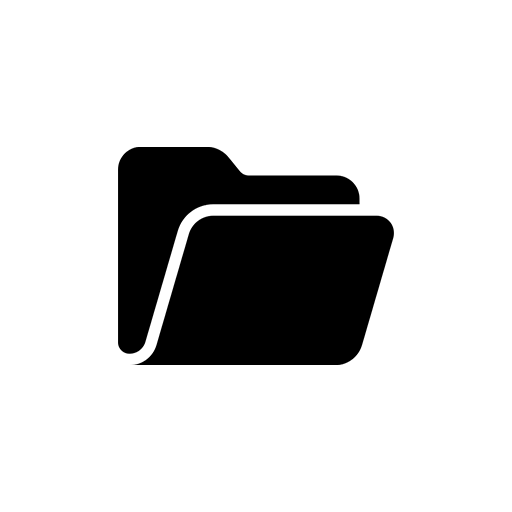
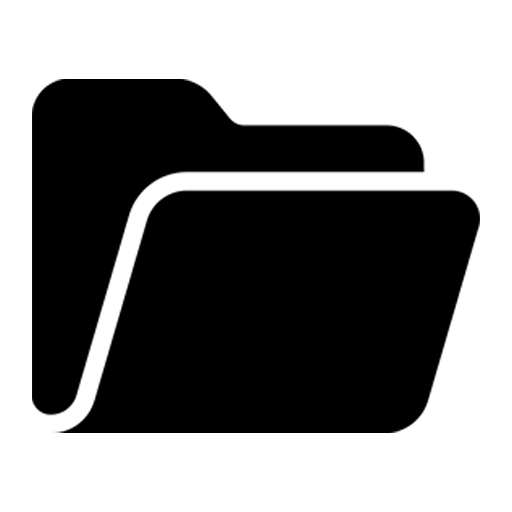
UI Update 4

diff --git a/front-end/src/pages/NasFileBrowser.jsx b/front-end/src/pages/NasFileBrowser.jsx
@@ -884,7 +884,15 @@ function NasFileBrowser() {
         {loading ? <p className="file-server-empty">Loading catalogue…</p> : (
           <>
             {visibleEntries.map((entry) => (
-              <article className={`file-server-row ${entry.entryType === 'folder' ? 'folder' : ''}`} key={entry.id}>
+              <article
+                className={`file-server-row ${entry.entryType === 'folder' ? 'folder' : ''} ${entry.previewKind === 'image' ? 'image-file' : ''}`}
+                key={entry.id}
+                onClick={() => {
+                  if (entry.previewKind === 'image' && !deliveringEntryId && !sharingEntryId) {
+                    void openImageLightbox(entry);
+                  }
+                }}
+              >
                 {entry.entryType === 'folder' ? (
                   <button className="file-server-name-button" onClick={() => setFolder(entry.relativePath)}>
                     {renderNasEntryIcon(entry)}
@@ -903,20 +911,20 @@ function NasFileBrowser() {
                 )}
                 <span>{entry.entryType === 'folder' ? 'Folder' : formatBytes(entry.sizeBytes)}</span>
                 <span>{formatDate(entry.modifiedAt)}</span>
-                <div className="file-server-row-actions">
+                <div className="file-server-row-actions" onClick={(event) => event.stopPropagation()}>
                   {searchState && <button className="file-server-button compact" onClick={() => openEntryLocation(entry)}>Show location</button>}
                   {entry.entryType === 'file' && (
                     <>
-                    <button
-                      className="file-server-button compact"
-                      type="button"
-                      disabled={Boolean(deliveringEntryId) || Boolean(sharingEntryId)}
-                      onClick={() => (entry.previewKind === 'image'
-                        ? void openImageLightbox(entry)
-                        : void requestDelivery(entry, 'inline'))}
-                    >
-                      {deliveringEntryId === entry.id ? 'Preparing...' : (entry.previewKind === 'image' ? 'View' : 'Open')}
-                    </button>
+                    {entry.previewKind !== 'image' && (
+                      <button
+                        className="file-server-button compact"
+                        type="button"
+                        disabled={Boolean(deliveringEntryId) || Boolean(sharingEntryId)}
+                        onClick={() => void requestDelivery(entry, 'inline')}
+                      >
+                        {deliveringEntryId === entry.id ? 'Preparing...' : 'Open'}
+                      </button>
+                    )}
                     <button
                       className="file-server-button compact"
                       type="button"

diff --git a/front-end/src/CSS/FileServer.css b/front-end/src/CSS/FileServer.css
@@ -84,8 +84,11 @@
 .file-server-browser { margin-top: 18px; overflow: hidden; border: 1px solid #d7dfe8; border-radius: 8px; background: #fff; }
 .file-server-browser-heading, .file-server-row { display: grid; grid-template-columns: minmax(180px, 1fr) 100px 170px minmax(310px, max-content); gap: 12px; align-items: center; }
 .file-server-browser-heading { padding: 10px 14px; background: #f3f6f9; color: #5d6b7b; font-size: 12px; font-weight: 700; }
-.file-server-row { min-height: 48px; padding: 8px 14px; border-top: 1px solid #edf0f4; }
+.file-server-row { min-height: 48px; padding: 8px 14px; border-top: 1px solid #edf0f4; transition: background-color .15s ease; }
 .file-server-row.folder { background: #fbfcfe; }
+.file-server-row:hover { background: #f2f7fc; }
+.file-server-row.image-file { cursor: pointer; }
+.file-server-row.image-file .file-server-row-actions { cursor: default; }
 .file-server-file-name, .file-server-name-button { overflow: hidden; color: #263648; font-weight: 600; text-align: left; text-overflow: ellipsis; white-space: nowrap; }
 .nas-file-name-cell { display: flex; min-width: 0; align-items: center; gap: 8px; }
 .nas-file-name-cell .file-server-file-name { min-width: 0; }

diff --git a/front-end/src/components/SignUpWithGoogle.jsx b/front-end/src/components/SignUpWithGoogle.jsx
@@ -2,6 +2,7 @@
 import React, { useState } from 'react';
 import GoogleButton from 'react-google-button';
 import { getAuth, signInWithPopup, GoogleAuthProvider } from 'firebase/auth';
+import { Link } from 'react-router-dom';
 import { useAuth } from '../context/AuthContext';
 import '../CSS/SignUpWithGoogle.css';
 
@@ -110,6 +111,7 @@ const SignUpWithGoogle = () => {
             {role === 'admin' && (
                 <div className='admin-panel'>
                     <h2>Admin Panel</h2>
+                    <Link to="/admin/nas-connectors" className="admin-panel-link">NAS Connectors</Link>
                     <form onSubmit={handleUpdateRole}>
                         <label>
                             User ID:

diff --git a/front-end/src/components/Navbar.jsx b/front-end/src/components/Navbar.jsx
@@ -16,7 +16,6 @@ function Navbar() {
     { to: '/projects', label: 'Projects' },
     { to: '/team', label: 'Team' },
     { to: '/licenses', label: 'Licenses' },
-    ...(role === 'admin' ? [{ to: '/admin/nas-connectors', label: 'NAS Connectors' }] : []),
   ];
 
   return (

diff --git a/front-end/src/CSS/SignUpWithGoogle.css b/front-end/src/CSS/SignUpWithGoogle.css
@@ -25,6 +25,18 @@
     margin-top: 100px;
 }
 
+.admin-panel-link
+{
+    margin-top: 8px;
+    color: #1b5c9d;
+    font-weight: 600;
+}
+
+.admin-panel-link:hover
+{
+    color: #124a82;
+}
+
 .admin-panel form
 {
     display: flex;
